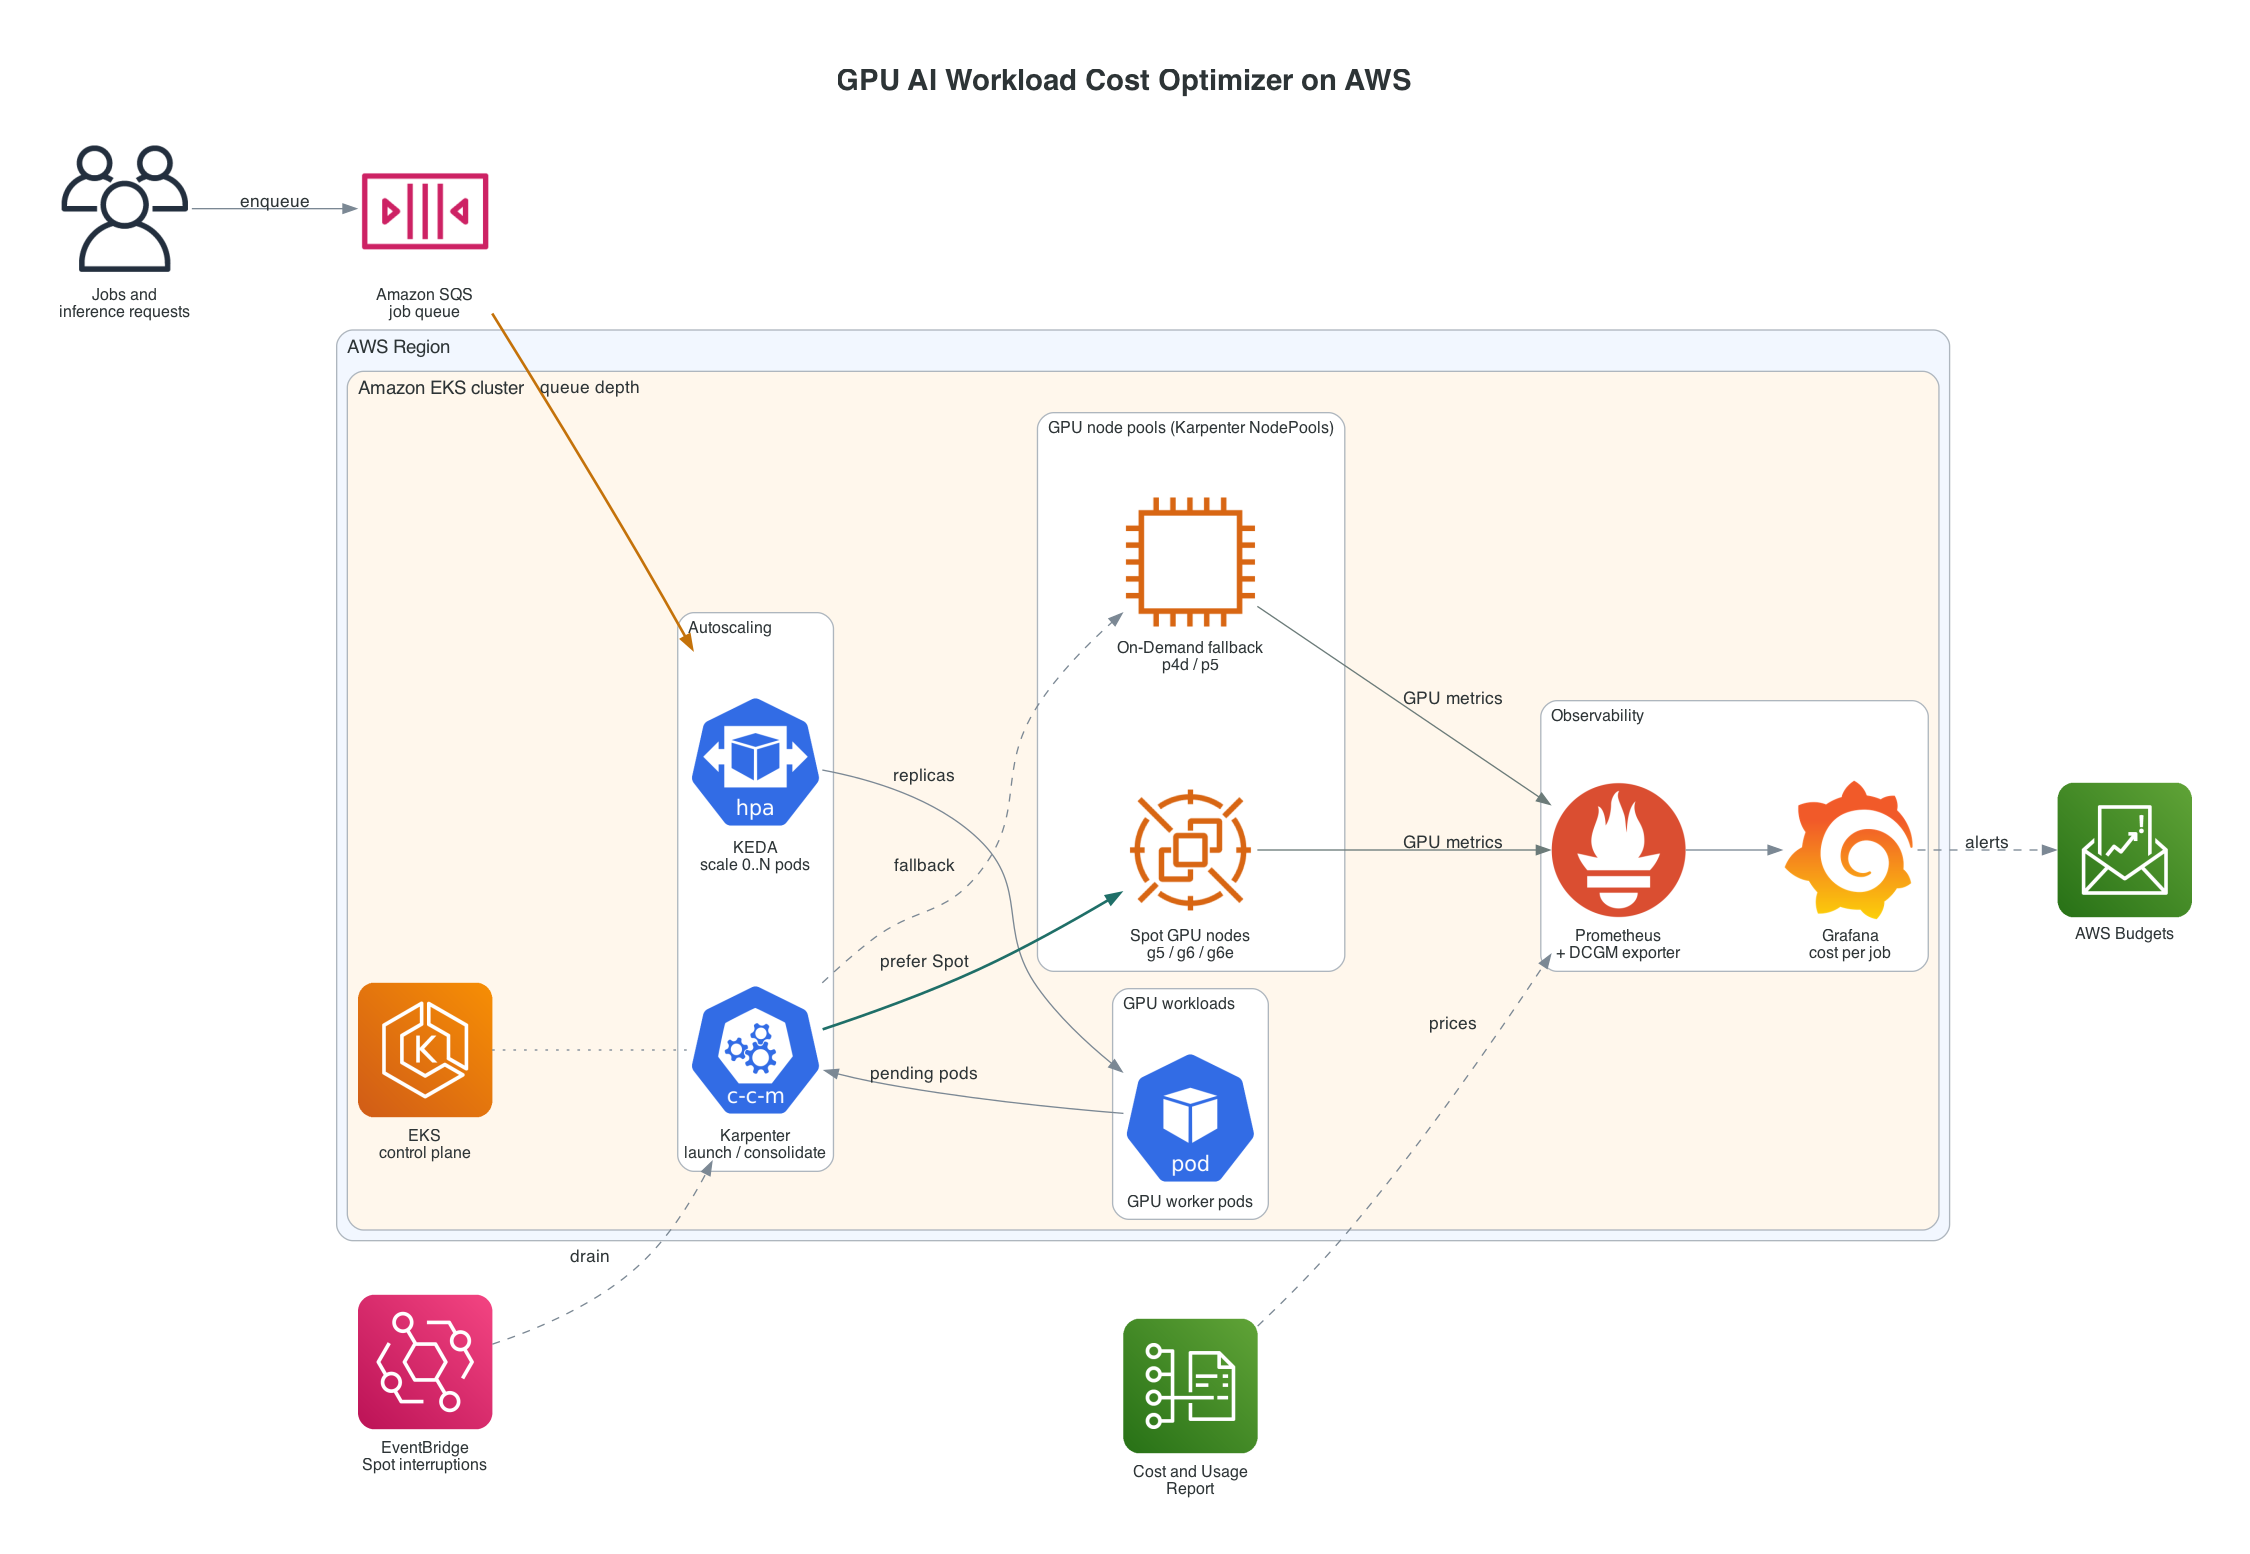
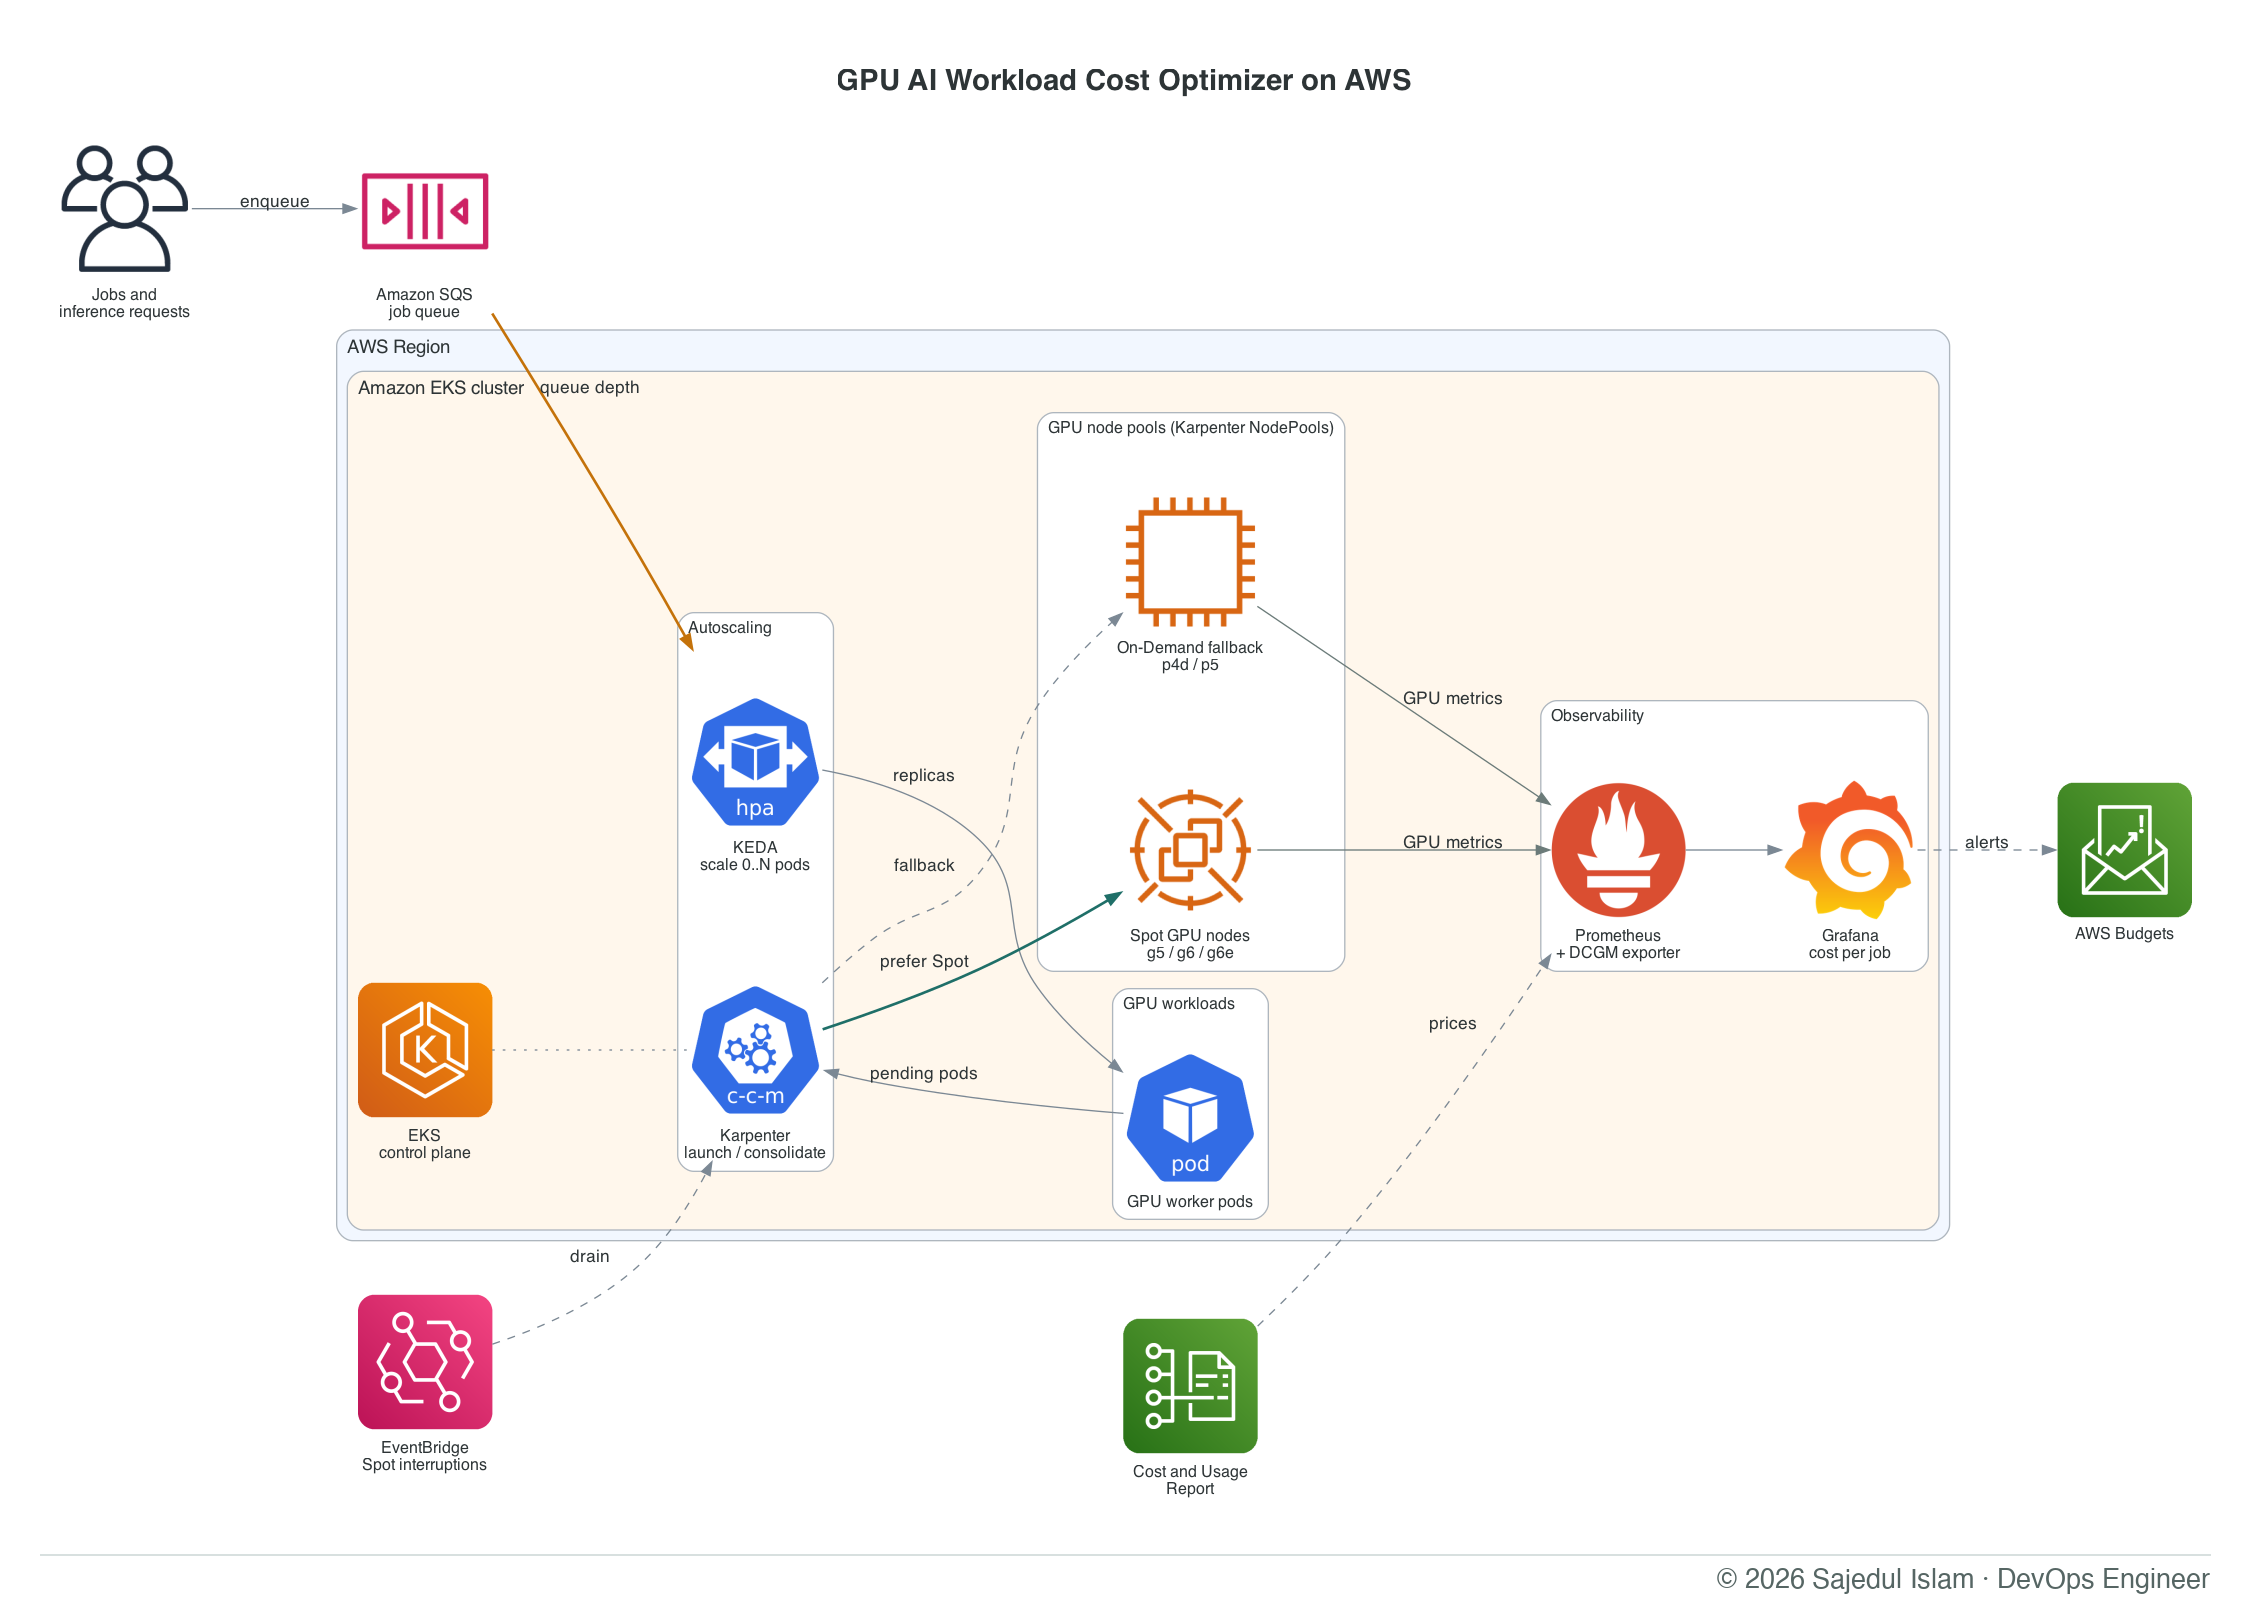
Add copyright footer to architecture diagram

diff --git a/docs/diagrams/architecture.py b/docs/diagrams/architecture.py
@@ -1,12 +1,13 @@
 """Render the architecture diagram with official AWS icons.
 
 Usage:
-    pip install diagrams          # also needs Graphviz: brew install graphviz
+    pip install diagrams pillow   # also needs Graphviz: brew install graphviz
     python docs/diagrams/architecture.py
 
 Writes docs/images/architecture.png.
 """
 
+from datetime import date
 from pathlib import Path
 
 from diagrams import Cluster, Diagram, Edge
@@ -18,9 +19,11 @@ from diagrams.k8s.clusterconfig import HPA
 from diagrams.k8s.compute import Pod
 from diagrams.k8s.controlplane import CCM
 from diagrams.onprem.monitoring import Grafana, Prometheus
+from PIL import Image, ImageDraw, ImageFont
 
 OUT = Path(__file__).resolve().parents[1] / "images" / "architecture"
 OUT.parent.mkdir(parents=True, exist_ok=True)
+COPYRIGHT = f"\u00a9 {date.today().year} Sajedul Islam \u00b7 DevOps Engineer"
 
 graph_attr = {
     "fontsize": "22",
@@ -81,3 +84,26 @@ with Diagram(
     cur >> Edge(label="prices", style="dashed") >> prom
     prom >> grafana
     grafana >> Edge(label="alerts", style="dashed") >> budgets
+
+
+def add_copyright(png: Path, text: str) -> None:
+    """Add a footer strip with the copyright notice to the rendered PNG."""
+    img = Image.open(png).convert("RGB")
+    strip = max(48, img.height // 28)
+    out = Image.new("RGB", (img.width, img.height + strip), "white")
+    out.paste(img, (0, 0))
+    draw = ImageDraw.Draw(out)
+    try:
+        font = ImageFont.truetype("Helvetica.ttc", strip // 2)
+    except OSError:
+        try:
+            font = ImageFont.truetype("DejaVuSans.ttf", strip // 2)
+        except OSError:
+            font = ImageFont.load_default()
+    draw.line([(40, img.height), (img.width - 40, img.height)], fill="#D8E0DF", width=2)
+    w = draw.textlength(text, font=font)
+    draw.text((img.width - w - 40, img.height + strip // 4), text, fill="#566664", font=font)
+    out.save(png)
+
+
+add_copyright(OUT.with_suffix(".png"), COPYRIGHT)

diff --git a/CLAUDE.md b/CLAUDE.md
@@ -18,7 +18,7 @@ and cost-per-job dashboards in Prometheus and Grafana. Public, client-facing rep
 
 ## Commands
 
-- Render diagram: `python3 -m venv .venv && .venv/bin/pip install diagrams && .venv/bin/python docs/diagrams/architecture.py` (needs `brew install graphviz`)
+- Render diagram: `python3 -m venv .venv && .venv/bin/pip install diagrams pillow && .venv/bin/python docs/diagrams/architecture.py` (needs `brew install graphviz`)
 - Validate manifests: `kubeconform -strict -ignore-missing-schemas k8s/`
 - Terraform checks: `terraform fmt -recursive && terraform validate && terraform plan`. Applying changes is done by a human only.
 

diff --git a/.claude/skills/architecture-diagram/SKILL.md b/.claude/skills/architecture-diagram/SKILL.md
@@ -11,7 +11,7 @@ The PNG is generated. Edit `docs/diagrams/architecture.py`, never the image.
 
 ```bash
 brew install graphviz                       # once
-python3 -m venv .venv && .venv/bin/pip install diagrams   # once
+python3 -m venv .venv && .venv/bin/pip install diagrams pillow   # once
 .venv/bin/python docs/diagrams/architecture.py
 ```
 

diff --git a/README.md b/README.md
@@ -206,7 +206,7 @@ Targets are set per environment after the Phase 1 baseline. These are the number
 ```bash
 brew install graphviz
 python3 -m venv .venv
-.venv/bin/pip install diagrams
+.venv/bin/pip install diagrams pillow
 .venv/bin/python docs/diagrams/architecture.py
 ```
 
